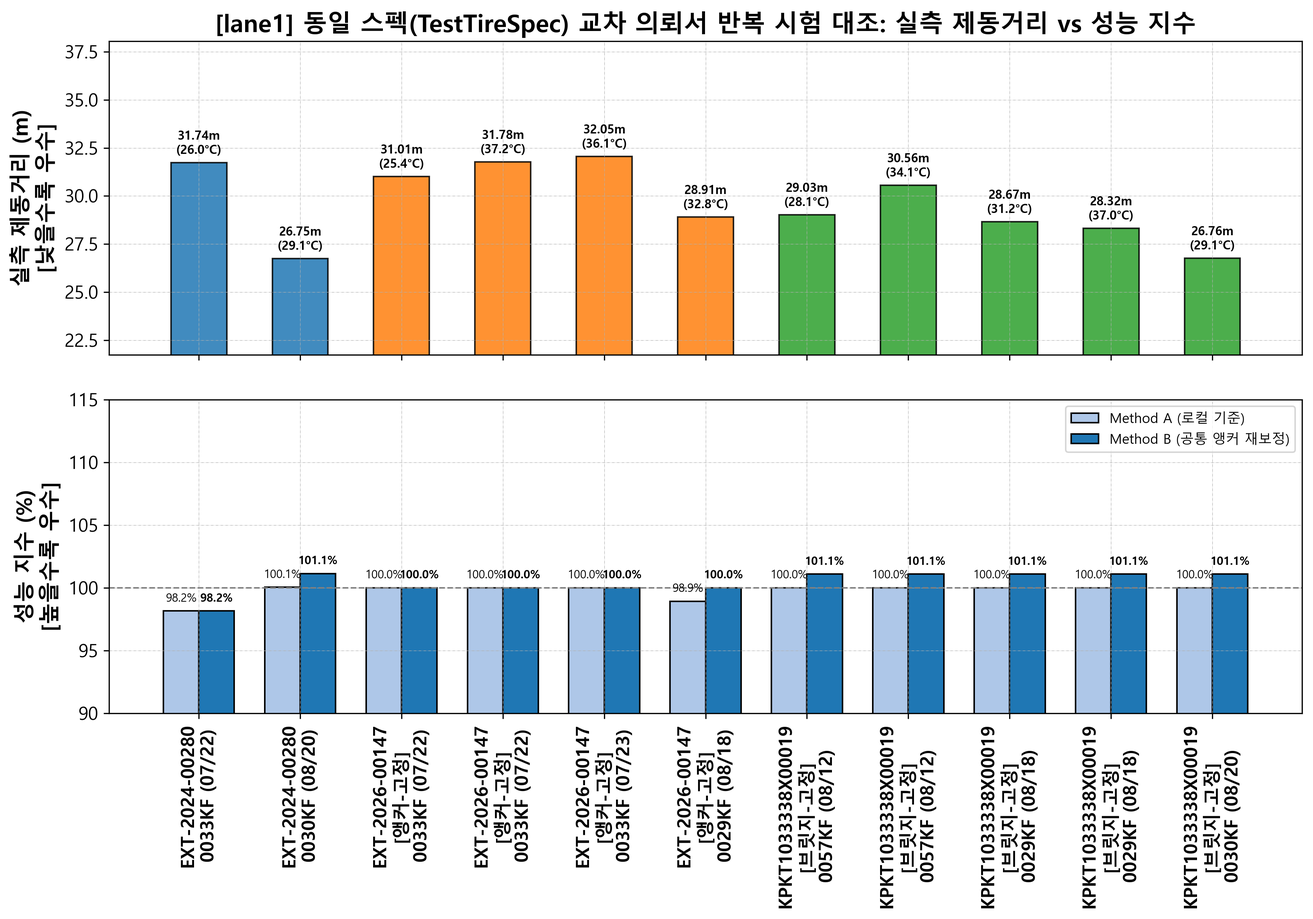
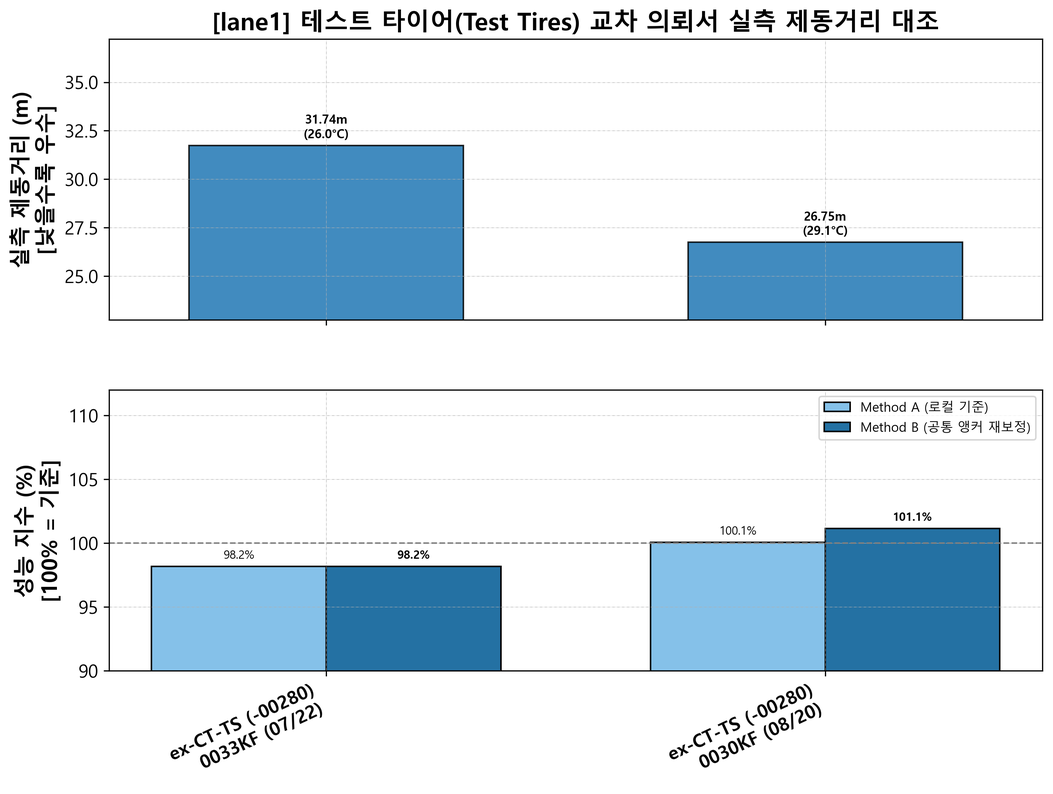
vault backup: 2026-09-16 20:51:15

diff --git a/02_Projects/회사_업무/10_Braking_AutoBuild/10_EV3_IW01_Integrated_Braking_Analysis_Report.md b/02_Projects/회사_업무/10_Braking_AutoBuild/10_EV3_IW01_Integrated_Braking_Analysis_Report.md
@@ -23,7 +23,7 @@ project_link: "[[02_Projects/회사_업무/10_Braking_AutoBuild/00_Braking_AutoB
 # 🚗 EV3 IW01 실차 제동 성능 종합 공학 분석 마스터 리포트
 ### Engineering Whitepaper: Surface Separation, Control Baseline, Temperature Sensitivity & Anchor Recalibration
 
-> **보고서 생성일시**: `2026-09-16 20:22` | **분석 프로젝트**: `EV3 IW01 제동 평가 (2026)`  
+> **보고서 생성일시**: `2026-09-16 20:41` | **분석 프로젝트**: `EV3 IW01 제동 평가 (2026)`  
 > **시험 차량**: `기아 EV3 (FF Layout / EV)` | **시험 장소**: `TR 실차 주행시험장`  
 > **평가 노면**: `Wet (Lane 1, Lane 4)` / `Dry (Lane 7, Lane 8)` | **분석 데이터셋**: 총 97회차 평가 데이터
 
@@ -36,7 +36,7 @@ project_link: "[[02_Projects/회사_업무/10_Braking_AutoBuild/00_Braking_AutoB
 4. [제2장: 콘트롤 타이어 노면온도 의존성 및 감인성 분석](#chapter-2)
 5. [제3장: 실측 제동거리 vs 성능지수 역전 불일치 진단](#chapter-3)
 6. [제4장: 공통 앵커(AP7) 기반 리캘리브레이션 및 종합 랭킹](#chapter-4)
-7. [제5장: 동일 스펙 교차 의뢰서 반복 재현성 정밀 대조](#chapter-5)
+7. [제5장: 콘트롤 타이어 및 테스트 타이어 교차 의뢰서 반복 재현성 정밀 대조](#chapter-5)
 8. [제6장: GPS 공간 품질(QC) 및 요(Yaw) 모션 종합 분석](#chapter-6)
 9. [제7장: 반복 횟수별 성능변화](#chapter-7)
 10. [제8장: 노면별 감속도 저하(Mu-Drop) 거리 및 환경 보정 왜곡 진단](#chapter-8)
@@ -673,105 +673,104 @@ project_link: "[[02_Projects/회사_업무/10_Braking_AutoBuild/00_Braking_AutoB
 ---
 
 <a id='chapter-5'></a>
-## 7. 🔁 [제5장] 동일 스펙 교차 의뢰서 반복 재현성 정밀 대조
-서로 다른 시기/의뢰서에서 2회 이상 중복 평가된 타이어들의 실측 제동거리 변동폭($\Delta\text{m}$)과 지수 편차($\Delta\%p$)를 검증한 결과입니다.
+## 7. 🔁 [제5장] 콘트롤 타이어 및 테스트 타이어 교차 의뢰서 반복 재현성 정밀 대조
+콘트롤 타이어의 세션 내(C1 vs C2) 및 의뢰서 간(Cross-Session) 안정성과, 테스트 타이어의 교차 의뢰서 지수 수렴도를 완전 분리하여 정밀 검증한 종합 보고서입니다.
 
-### 7.1 일반 평가 타이어 교차 세션 재현성 검증 (True Repeatability)
-> **⚠ 중요 공학적 해석**: 앵커/브릿지 타이어의 0.00%p는 수학적으로 기준점을 고정했기 때문에 나타나는 값이며, 진정한 실차 재현성은 아래 **일반 평가 타이어**의 산포(약 1.8%p ~ 4.8%p)를 통해 평가해야 합니다.
+### 7.1 콘트롤 타이어(Control Tires) 재현성 및 세션 안정성 평가
+> **📌 콘트롤 타이어 재현성의 의의**: 콘트롤 타이어(C-set)는 당일 시험 세션 내의 안정성(오전 C1 vs 오후 C2)을 보증하고, 서로 다른 계절/시기에 진행된 의뢰서 간의 환경 변화(온도/노면 마찰)를 보정하는 절대적 기준(Anchor)입니다.
 
-| No | 노면 | 스펙 번호 | 타이어 라벨 | 평가회수 | 실측 변동폭 (m) | Method A 편차 (%p) | Method B 편차 (%p) | 재현성 판정 | 온도차 (°C) | 세션별 실측 및 지수 상세 |
-| :---: | :---: | :---: | :--- | :---: | ---: | ---: | ---: | :---: | ---: | :--- |
-| 1 | lane1 | EXT-2024-00280 | ex / CT / TS | 2 | 4.99 | 1.89 | 2.98 | 실제 잔여 편차 (2.98%p) | 3.10 | 33KF: 31.74m (A:98.2% ➔ B:98.2%) \| 30KF: 26.75m (A:100.1% ➔ B:101.1%) |
-| 2 | lane4 | EXT-2024-00280 | ex / CT / TS | 2 | 2.29 | 1.23 | 4.78 | 실제 잔여 편차 (4.78%p) | 1.10 | 33KF: 36.42m (A:99.2% ➔ B:99.2%) \| 30KF: 34.13m (A:100.4% ➔ B:104.0%) |
-| 3 | lane4 | KPKT1033338X00013 | 1st / IW01 / X13 | 3 | 4.44 | 3.55 | 3.55 | 편차 유지 (3.55%p) | 13.70 | 25KF: 31.90m (A:103.3% ➔ B:103.3%) \| 33KF: 36.34m (A:99.8% ➔ B:99.8%) \| 33KF: 35.78m (A:99.8% ➔ B:99.8%) |
-| 4 | lane7 | EXT-2024-00280 | ex / CT / TS | 2 | 2.86 | 0.43 | 1.70 | 실제 잔여 편차 (1.70%p) | 5.40 | 33KF: 48.26m (A:99.0% ➔ B:99.0%) \| 30KF: 45.41m (A:99.5% ➔ B:100.7%) |
-
-
-### 7.2 기준선 정렬 스펙 검증표 (Anchor & Bridge - 수학적 기준점)
-| No | 노면 | 스펙 번호 | 타이어 라벨 | 역할 분류 | 평가회수 | 실측 변동폭 (m) | Method A 편차 (%p) | Method B 편차 (%p) | 상태 정의 | 세션별 실측 및 지수 상세 |
-| :---: | :---: | :---: | :--- | :---: | :---: | ---: | ---: | ---: | :---: | :--- |
-| 1 | lane1 | EXT-2026-00147 | [Ctrl] ex / MC / AP7 | 공통 앵커 (Anchor) | 4 | 3.14 | 1.07 | 0.00 | 기준점 정의 (0.00%p 고정) | 33KF: 31.01m (A:100.0% ➔ B:100.0%) \| 33KF: 31.78m (A:100.0% ➔ B:100.0%) \| 33KF: 32.05m (A:100.0% ➔ B:100.0%) \| 29KF: 28.91m (A:98.9% ➔ B:100.0%) |
-| 2 | lane1 | KPKT1033338X00019 | [Ctrl] KP / IW01 / X19 | 브릿지 타이어 (Bridge) | 5 | 3.80 | 0.00 | 0.00 | 연계 정의 (0.00%p 고정) | 57KF: 29.03m (A:100.0% ➔ B:101.1%) \| 57KF: 30.56m (A:100.0% ➔ B:101.1%) \| 29KF: 28.67m (A:100.0% ➔ B:101.1%) \| 29KF: 28.32m (A:100.0% ➔ B:101.1%) \| 30KF: 26.76m (A:100.0% ➔ B:101.1%) |
-| 3 | lane4 | EXT-2026-00147 | [Ctrl] ex / MC / AP7 | 공통 앵커 (Anchor) | 7 | 3.90 | 4.45 | 0.00 | 기준점 정의 (0.00%p 고정) | 25KF: 32.80m (A:100.0% ➔ B:100.0%) \| 25KF: 33.29m (A:100.0% ➔ B:100.0%) \| 23KF: 36.70m (A:95.6% ➔ B:100.0%) \| 33KF: 35.99m (A:100.0% ➔ B:100.0%) \| 33KF: 36.64m (A:100.0% ➔ B:100.0%) \| 33KF: 35.73m (A:100.0% ➔ B:100.0%) \| 29KF: 35.10m (A:96.6% ➔ B:100.0%) |
-| 4 | lane4 | KPKT1033338X00019 | [Ctrl] KP / IW01 / X19 | 브릿지 타이어 (Bridge) | 5 | 0.94 | 0.00 | 0.00 | 연계 정의 (0.00%p 고정) | 57KF: 33.35m (A:100.0% ➔ B:103.5%) \| 57KF: 33.86m (A:100.0% ➔ B:103.5%) \| 29KF: 33.85m (A:100.0% ➔ B:103.5%) \| 29KF: 34.29m (A:100.0% ➔ B:103.5%) \| 30KF: 34.27m (A:100.0% ➔ B:103.5%) |
-| 5 | lane7 | EXT-2026-00147 | [Ctrl] ex / MC / AP7 | 공통 앵커 (Anchor) | 3 | 1.26 | 1.27 | 0.00 | 기준점 정의 (0.00%p 고정) | 33KF: 47.77m (A:100.0% ➔ B:100.0%) \| 33KF: 47.93m (A:100.0% ➔ B:100.0%) \| 29KF: 46.68m (A:98.7% ➔ B:100.0%) |
-| 6 | lane7 | KPKT1033338X00019 | [Ctrl] KP / IW01 / X19 | 브릿지 타이어 (Bridge) | 5 | 2.64 | 0.00 | 0.00 | 연계 정의 (0.00%p 고정) | 57KF: 47.65m (A:100.0% ➔ B:101.3%) \| 57KF: 46.95m (A:100.0% ➔ B:101.3%) \| 29KF: 45.78m (A:100.0% ➔ B:101.3%) \| 30KF: 45.01m (A:100.0% ➔ B:101.3%) \| 30KF: 45.76m (A:100.0% ➔ B:101.3%) |
-| 7 | lane8 | EXT-2026-00147 | [Ctrl] ex / MC / AP7 | 공통 앵커 (Anchor) | 3 | 3.55 | 1.19 | 0.00 | 기준점 정의 (0.00%p 고정) | 25KF: 43.51m (A:100.0% ➔ B:100.0%) \| 25KF: 43.60m (A:100.0% ➔ B:100.0%) \| 23KF: 47.07m (A:101.2% ➔ B:100.0%) |
+#### 7.1.1 동일 콘트롤 타이어 스펙 의뢰서 간(Cross-Session) 반복성 요약표
+| No | 노면 | 스펙 번호 | 타이어 라벨 | 의뢰서수 | 총측정회수 | 실측 평균(m) | 최소(m) | 최대(m) | 변동폭(m) | CV(%) | 온도차(°C) | 재현성 판정 | 세션별 실측치 이력 |
+| :---: | :---: | :---: | :--- | :---: | :---: | ---: | ---: | ---: | ---: | ---: | ---: | :---: | :--- |
+| 1 | lane1 | EXT-2026-00147 | ex-MC-AP7 | 1 | 3 | 31.61 | 31.01 | 32.05 | 1.04 | 1.70 | 11.80 | 단일 의뢰서 (3회 측정) | 0033KF(07-22): 31.39m \| 0033KF(07-23): 32.05m |
+| 2 | lane1 | KPKT1033338X00019 | KP-IW01-X19 | 3 | 5 | 28.67 | 26.76 | 30.56 | 3.80 | 4.77 | 8.90 | 환경 편차 큼 (3.80m, 계절차) | 0057KF(08-12): 29.80m \| 0029KF(08-18): 28.49m \| 0030KF(08-20): 26.76m |
+| 3 | lane4 | EXT-2026-00147 | ex-MC-AP7 | 2 | 5 | 34.89 | 32.80 | 36.64 | 3.85 | 4.95 | 18.20 | 환경 편차 큼 (3.85m, 계절차) | 0025KF(04-28): 33.05m \| 0033KF(07-22): 36.32m \| 0033KF(07-23): 35.73m |
+| 4 | lane4 | KPKT1033338X00018 | 2nd-IW01-X18 | 1 | 2 | 34.88 | 34.46 | 35.31 | 0.85 | 1.73 | 3.30 | 단일 의뢰서 (2회 측정) | 0023KF(06-24): 34.88m |
+| 5 | lane4 | KPKT1033338X00019 | KP-IW01-X19 | 3 | 5 | 33.92 | 33.35 | 34.29 | 0.94 | 1.13 | 8.10 | 보통 편차 (0.94m) | 0057KF(08-12): 33.60m \| 0029KF(08-18): 34.07m \| 0030KF(08-20): 34.27m |
+| 6 | lane7 | EXT-2026-00147 | ex-MC-AP7 | 1 | 2 | 47.85 | 47.77 | 47.93 | 0.17 | 0.25 | 9.60 | 단일 의뢰서 (2회 측정) | 0033KF(07-23): 47.85m |
+| 7 | lane7 | KPKT1033338X00019 | KP-IW01-X19 | 3 | 5 | 46.23 | 45.01 | 47.65 | 2.64 | 2.28 | 18.50 | 환경 편차 큼 (2.64m, 계절차) | 0057KF(08-13): 47.30m \| 0029KF(08-19): 45.78m \| 0030KF(08-24): 45.39m |
+| 8 | lane8 | EXT-2026-00147 | ex-MC-AP7 | 1 | 2 | 43.56 | 43.51 | 43.60 | 0.08 | 0.14 | 0.00 | 단일 의뢰서 (2회 측정) | 0025KF(04-29): 43.56m |
+| 9 | lane8 | KPKT1033338X00018 | 2nd-IW01-X18 | 1 | 1 | 47.63 | 47.63 | 47.63 | 0.00 | 0.00 | 0.00 | 단일 의뢰서 (1회 측정) | 0023KF(06-25): 47.63m |
 
 
-### 7.3 노면별 동일 스펙 반복 평가 대조 차트
-#### 📊 Lane 1 (Wet 저마찰 아스팔트) 동일 스펙 비교
-![[05_01_Cross_Spec_Comparison_lane1.png]]
+#### 7.1.2 콘트롤 타이어 세션 내(Within-Session: C1 vs C2) 반복성 정밀 대조표
+| No | 노면 | 시험 의뢰서 | 시험일자 | 스펙 번호 | 타이어 라벨 | C1 실측(m) | C2 실측(m) | 세션내 편차(m) | 변동률(%) | C1 온도(°C) | C2 온도(°C) | 세션내 안정성 평가 |
+| :---: | :---: | :---: | :---: | :---: | :--- | ---: | ---: | ---: | ---: | ---: | ---: | :---: |
+| 1 | lane1 | 26RE070033KF | 2026-07-22 | EXT-2026-00147 | ex-MC-AP7 | 31.01 | 31.78 | 0.76 | 2.46 | 25.40 | 37.20 | 양호 (편차 0.76m) |
+| 2 | lane1 | 26RE070057KF | 2026-08-12 | KPKT1033338X00019 | KP-IW01-X19 | 29.03 | 30.56 | 1.53 | 5.28 | 28.10 | 34.10 | 변동 주의 (편차 1.53m) |
+| 3 | lane1 | 26RE080029KF | 2026-08-18 | KPKT1033338X00019 | 2nd-IW01-X19 | 28.67 | 28.32 | -0.35 | -1.22 | 31.20 | 37.00 | 우수 (편차 0.35m) |
+| 4 | lane4 | 26RE040025KF | 2026-04-28 | EXT-2026-00147 | ex-MC-AP7 | 32.80 | 33.29 | 0.49 | 1.50 | 18.40 | 20.40 | 우수 (편차 0.49m) |
+| 5 | lane4 | 26RE060023KF | 2026-06-24 | KPKT1033338X00018 | 2nd-IW01-X18 | 34.46 | 35.31 | 0.85 | 2.47 | 24.50 | 27.80 | 양호 (편차 0.85m) |
+| 6 | lane4 | 26RE070033KF | 2026-07-22 | EXT-2026-00147 | ex-MC-AP7 | 35.99 | 36.64 | 0.65 | 1.81 | 25.40 | 36.60 | 양호 (편차 0.65m) |
+| 7 | lane4 | 26RE070057KF | 2026-08-12 | KPKT1033338X00019 | KP-IW01-X19 | 33.35 | 33.86 | 0.51 | 1.52 | 27.80 | 34.10 | 양호 (편차 0.51m) |
+| 8 | lane4 | 26RE080029KF | 2026-08-18 | KPKT1033338X00019 | 2nd-IW01-X19 | 33.85 | 34.29 | 0.43 | 1.28 | 30.30 | 35.90 | 우수 (편차 0.43m) |
+| 9 | lane7 | 26RE070033KF | 2026-07-23 | EXT-2026-00147 | ex-MC-AP7 | 47.77 | 47.93 | 0.17 | 0.35 | 32.30 | 41.90 | 우수 (편차 0.17m) |
+| 10 | lane7 | 26RE070057KF | 2026-08-13 | KPKT1033338X00019 | KP-IW01-X19 | 47.65 | 46.95 | -0.70 | -1.47 | 33.80 | 45.50 | 양호 (편차 0.70m) |
+| 11 | lane7 | 26RE080030KF | 2026-08-24 | KPKT1033338X00019 | 2nd-IW01-X19 | 45.01 | 45.76 | 0.75 | 1.66 | 38.70 | 52.30 | 양호 (편차 0.75m) |
+| 12 | lane8 | 26RE040025KF | 2026-04-29 | EXT-2026-00147 | ex-MC-AP7 | 43.51 | 43.60 | 0.08 | 0.20 | 0.00 | 0.00 | 우수 (편차 0.08m) |
 
-#### 📊 Lane 4 (Wet 고마찰 아스팔트) 동일 스펙 비교
-![[05_02_Cross_Spec_Comparison_lane4.png]]
 
-#### 📊 Lane 7 (Dry 아스팔트) 동일 스펙 비교
-![[05_03_Cross_Spec_Comparison_lane7.png]]
+#### 7.1.3 노면별 콘트롤 타이어 세션별 실측거리 및 세션 내 편차 차트
+##### 📊 Lane 1 (Wet 저마찰 아스팔트) 콘트롤 타이어 재현성 및 C1 vs C2 편차
+![[05_01_Ctrl_Repeatability_lane1.png]]
 
-#### 📊 Lane 8 (Dry) 동일 스펙 비교
-![[05_04_Cross_Spec_Comparison_lane8.png]]
+##### 📊 Lane 4 (Wet 고마찰 아스팔트) 콘트롤 타이어 재현성 및 C1 vs C2 편차
+![[05_01_Ctrl_Repeatability_lane4.png]]
 
-### 7.4 노면별 동일 스펙 세부 평가 이력 및 재보정 산출 명세표 (전수 수록)
-#### ▶ LANE1 동일 스펙 반복 평가 세부 명세 (총 11건)
+##### 📊 Lane 7 (Dry 아스팔트) 콘트롤 타이어 재현성 및 C1 vs C2 편차
+![[05_01_Ctrl_Repeatability_lane7.png]]
+
+##### 📊 Lane 8 (Dry 제동 시험로) 콘트롤 타이어 재현성 및 C1 vs C2 편차
+![[05_01_Ctrl_Repeatability_lane8.png]]
+
+### 7.2 테스트 타이어(Test Tires) 교차 의뢰서 재현성 및 지수 수렴 평가
+> **⚠ 중요 공학적 해석**: 일반 테스트 타이어의 교차 의뢰서 평가는 계절/기온차 및 타이어 컴파운드의 온도 감응도 차이로 인해 실차 고유 산포(약 1.7%p ~ 4.8%p)가 발생합니다. Method B(공통 앵커 재보정)는 이러한 환경 편차를 수학적으로 정규화하여 타이어 간 공정한 직접 대조를 가능하게 합니다.
+
+#### 7.2.1 테스트 타이어 스펙별 교차 의뢰서 반복 대조 요약표
+| No | 노면 | 스펙 번호 | 타이어 라벨 | 평가회수 | 최소(m) | 최대(m) | 실측 변동폭(m) | Method A 편차(%p) | Method B 편차(%p) | 개선폭(%p) | 재현성 판정 | 온도차(°C) | 세션별 실측 및 지수 상세 |
+| :---: | :---: | :---: | :--- | :---: | ---: | ---: | ---: | ---: | ---: | ---: | :---: | ---: | :--- |
+| 1 | lane1 | EXT-2024-00280 | ex-CT-TS | 2 | 26.75 | 31.74 | 4.99 | 1.89 | 2.98 | -1.09 | 실제 잔여 편차 (2.98%p) | 3.10 | 33KF: 31.74m (A:98.2% ➔ B:98.2%) \| 30KF: 26.75m (A:100.1% ➔ B:101.1%) |
+| 2 | lane4 | EXT-2024-00280 | ex-CT-TS | 2 | 34.13 | 36.42 | 2.29 | 1.23 | 4.78 | -3.55 | 실제 잔여 편차 (4.78%p) | 1.10 | 33KF: 36.42m (A:99.2% ➔ B:99.2%) \| 30KF: 34.13m (A:100.4% ➔ B:104.0%) |
+| 3 | lane4 | EXT-2026-00147 | ex-MC-AP7 | 2 | 35.10 | 36.70 | 1.60 | 1.03 | 0.00 | 1.03 | 완벽 수렴 | 5.80 | 23KF: 36.70m (A:95.6% ➔ B:100.0%) \| 29KF: 35.10m (A:96.6% ➔ B:100.0%) |
+| 4 | lane4 | KPKT1033338X00013 | 1st-IW01-X13 | 3 | 31.90 | 36.34 | 4.44 | 3.55 | 3.55 | 0.00 | 편차 유지 (3.55%p) | 13.70 | 25KF: 31.90m (A:103.3% ➔ B:103.3%) \| 33KF: 36.34m (A:99.8% ➔ B:99.8%) \| 33KF: 35.78m (A:99.8% ➔ B:99.8%) |
+| 5 | lane7 | EXT-2024-00280 | ex-CT-TS | 2 | 45.41 | 48.26 | 2.86 | 0.43 | 1.70 | -1.27 | 실제 잔여 편차 (1.70%p) | 5.40 | 33KF: 48.26m (A:99.0% ➔ B:99.0%) \| 30KF: 45.41m (A:99.5% ➔ B:100.7%) |
+
+
+#### 7.2.2 노면별 테스트 타이어 실측 제동거리 vs 성능 지수 대조 차트
+##### 📊 Lane 1 (Wet 저마찰 아스팔트) 테스트 타이어 교차 대조
+![[05_02_Test_Repeatability_lane1.png]]
+
+##### 📊 Lane 4 (Wet 고마찰 아스팔트) 테스트 타이어 교차 대조
+![[05_02_Test_Repeatability_lane4.png]]
+
+##### 📊 Lane 7 (Dry 아스팔트) 테스트 타이어 교차 대조
+![[05_02_Test_Repeatability_lane7.png]]
+
+#### 7.2.3 테스트 타이어 세부 평가 이력 및 재보정 산출 명세표 (전수 수록)
+##### ▶ LANE1 테스트 타이어 교차 평가 세부 명세 (총 2건)
 | No | 스펙 번호 | 타이어 명칭/패턴 | 시험 의뢰서 | 차수 | 시험 일시 | 당일 콘트롤 | 콘트롤거리(m) | 실측거리(m) | Method A 산출식 | 로컬지수(%) | 적용배율 | 배율도출근거 | Method B 산출식 | 재보정지수(%) | 앵커대비편차(%p) |
 | :---: | :---: | :--- | :---: | :---: | :---: | :--- | ---: | ---: | :--- | ---: | ---: | :--- | :--- | ---: | ---: |
-| 1 | EXT-2024-00280 | ex / CT / TS | 26RE070033KF | T1 | 2026-07-22 09:50 | ex / MC / AP7 | 31.16 | 31.74 | 31.16m / 31.74m × 100 = 98.16% | 98.16 | 1.00 | 100.0% / 100.00% = 1.0000 | 98.16% × 1.0000 = 98.16% | 98.16 | -1.84 |
-| 2 | EXT-2024-00280 | ex / CT / TS | 26RE080030KF | T1 | 2026-08-20 15:52 | 2nd / IW01 / X19 | 26.76 | 26.75 | 26.76m / 26.75m × 100 = 100.05% | 100.05 | 1.01 | 101.09% / 100.00% = 1.0109 | 100.05% × 1.0109 = 101.14% | 101.14 | 1.14 |
-| 3 | EXT-2026-00147 | [Ctrl] ex / MC / AP7 | 26RE070033KF | C1 | 2026-07-22 09:12 | ex / MC / AP7 | 31.01 | 31.01 | 31.01m / 31.01m × 100 = 100.00% | 100.00 | 1.00 | 100.0% / 100.00% = 1.0000 | 100.00% × 1.0000 = 100.00% | 100.00 | 0.00 |
-| 4 | EXT-2026-00147 | [Ctrl] ex / MC / AP7 | 26RE070033KF | C2 | 2026-07-22 13:55 | ex / MC / AP7 | 31.78 | 31.78 | 31.78m / 31.78m × 100 = 100.00% | 100.00 | 1.00 | 100.0% / 100.00% = 1.0000 | 100.00% × 1.0000 = 100.00% | 100.00 | 0.00 |
-| 5 | EXT-2026-00147 | [Ctrl] ex / MC / AP7 | 26RE070033KF | C1 | 2026-07-23 13:28 | ex / MC / AP7 | 32.05 | 32.05 | 32.05m / 32.05m × 100 = 100.00% | 100.00 | 1.00 | 100.0% / 100.00% = 1.0000 | 100.00% × 1.0000 = 100.00% | 100.00 | 0.00 |
-| 6 | EXT-2026-00147 | ex / MC / AP7 | 26RE080029KF | T2 | 2026-08-18 09:57 | 2nd / IW01 / X19 | 28.60 | 28.91 | 28.60m / 28.91m × 100 = 98.93% | 98.93 | 1.01 | 100.0% / 98.93% = 1.0109 | 98.93% × 1.0109 = 100.00% | 100.00 | 0.00 |
-| 7 | KPKT1033338X00019 | [Ctrl] KP / IW01 / X19 | 26RE070057KF | C1 | 2026-08-12 09:21 | KP / IW01 / X19 | 29.03 | 29.03 | 29.03m / 29.03m × 100 = 100.00% | 100.00 | 1.01 | 101.09% / 100.00% = 1.0109 | 100.00% × 1.0109 = 101.09% | 101.09 | 1.09 |
-| 8 | KPKT1033338X00019 | [Ctrl] KP / IW01 / X19 | 26RE070057KF | C2 | 2026-08-12 13:35 | KP / IW01 / X19 | 30.56 | 30.56 | 30.56m / 30.56m × 100 = 100.00% | 100.00 | 1.01 | 101.09% / 100.00% = 1.0109 | 100.00% × 1.0109 = 101.09% | 101.09 | 1.09 |
-| 9 | KPKT1033338X00019 | [Ctrl] 2nd / IW01 / X19 | 26RE080029KF | C1 | 2026-08-18 09:24 | 2nd / IW01 / X19 | 28.67 | 28.67 | 28.67m / 28.67m × 100 = 100.00% | 100.00 | 1.01 | 100.0% / 98.93% = 1.0109 | 100.00% × 1.0109 = 101.09% | 101.09 | 1.09 |
-| 10 | KPKT1033338X00019 | [Ctrl] 2nd / IW01 / X19 | 26RE080029KF | C2 | 2026-08-18 13:43 | 2nd / IW01 / X19 | 28.32 | 28.32 | 28.32m / 28.32m × 100 = 100.00% | 100.00 | 1.01 | 100.0% / 98.93% = 1.0109 | 100.00% × 1.0109 = 101.09% | 101.09 | 1.09 |
-| 11 | KPKT1033338X00019 | [Ctrl] 2nd / IW01 / X19 | 26RE080030KF | C1 | 2026-08-20 15:21 | 2nd / IW01 / X19 | 26.76 | 26.76 | 26.76m / 26.76m × 100 = 100.00% | 100.00 | 1.01 | 101.09% / 100.00% = 1.0109 | 100.00% × 1.0109 = 101.09% | 101.09 | 1.09 |
+| 1 | EXT-2024-00280 | ex-CT-TS | 26RE070033KF | T1 | 2026-07-22 09:50 | ex / MC / AP7 | 31.16 | 31.74 | 31.16m / 31.74m × 100 = 98.16% | 98.16 | 1.00 | 100.0% / 100.00% = 1.0000 | 98.16% × 1.0000 = 98.16% | 98.16 | -1.84 |
+| 2 | EXT-2024-00280 | ex-CT-TS | 26RE080030KF | T1 | 2026-08-20 15:52 | 2nd / IW01 / X19 | 26.76 | 26.75 | 26.76m / 26.75m × 100 = 100.05% | 100.05 | 1.01 | 101.09% / 100.00% = 1.0109 | 100.05% × 1.0109 = 101.14% | 101.14 | 1.14 |
 
 
-#### ▶ LANE4 동일 스펙 반복 평가 세부 명세 (총 17건)
+##### ▶ LANE4 테스트 타이어 교차 평가 세부 명세 (총 7건)
 | No | 스펙 번호 | 타이어 명칭/패턴 | 시험 의뢰서 | 차수 | 시험 일시 | 당일 콘트롤 | 콘트롤거리(m) | 실측거리(m) | Method A 산출식 | 로컬지수(%) | 적용배율 | 배율도출근거 | Method B 산출식 | 재보정지수(%) | 앵커대비편차(%p) |
 | :---: | :---: | :--- | :---: | :---: | :---: | :--- | ---: | ---: | :--- | ---: | ---: | :--- | :--- | ---: | ---: |
-| 1 | EXT-2024-00280 | ex / CT / TS | 26RE070033KF | T1 | 2026-07-22 09:57 | ex / MC / AP7 | 36.12 | 36.42 | 36.12m / 36.42m × 100 = 99.17% | 99.17 | 1.00 | 100.0% / 100.00% = 1.0000 | 99.17% × 1.0000 = 99.17% | 99.17 | -0.83 |
-| 2 | EXT-2024-00280 | ex / CT / TS | 26RE080030KF | T1 | 2026-08-20 11:57 | 2nd / IW01 / X19 | 34.27 | 34.13 | 34.27m / 34.13m × 100 = 100.40% | 100.40 | 1.04 | 103.54% / 100.00% = 1.0354 | 100.40% × 1.0354 = 103.95% | 103.95 | 3.95 |
-| 3 | EXT-2026-00147 | [Ctrl] ex / MC / AP7 | 26RE040025KF | C1 | 2026-04-28 10:18 | ex / MC / AP7 | 32.80 | 32.80 | 32.80m / 32.80m × 100 = 100.00% | 100.00 | 1.00 | 100.0% / 100.00% = 1.0000 | 100.00% × 1.0000 = 100.00% | 100.00 | 0.00 |
-| 4 | EXT-2026-00147 | [Ctrl] ex / MC / AP7 | 26RE040025KF | C2 | 2026-04-28 14:16 | ex / MC / AP7 | 33.29 | 33.29 | 33.29m / 33.29m × 100 = 100.00% | 100.00 | 1.00 | 100.0% / 100.00% = 1.0000 | 100.00% × 1.0000 = 100.00% | 100.00 | 0.00 |
-| 5 | EXT-2026-00147 | ex / MC / AP7 | 26RE060023KF | T4 | 2026-06-24 13:43 | 2nd / IW01 / X18 | 35.14 | 36.70 | 35.14m / 36.70m × 100 = 95.55% | 95.55 | 1.05 | 100.0% / 95.55% = 1.0465 | 95.55% × 1.0465 = 100.00% | 100.00 | 0.00 |
-| 6 | EXT-2026-00147 | [Ctrl] ex / MC / AP7 | 26RE070033KF | C1 | 2026-07-22 09:22 | ex / MC / AP7 | 35.99 | 35.99 | 35.99m / 35.99m × 100 = 100.00% | 100.00 | 1.00 | 100.0% / 100.00% = 1.0000 | 100.00% × 1.0000 = 100.00% | 100.00 | 0.00 |
-| 7 | EXT-2026-00147 | [Ctrl] ex / MC / AP7 | 26RE070033KF | C2 | 2026-07-22 14:06 | ex / MC / AP7 | 36.64 | 36.64 | 36.64m / 36.64m × 100 = 100.00% | 100.00 | 1.00 | 100.0% / 100.00% = 1.0000 | 100.00% × 1.0000 = 100.00% | 100.00 | 0.00 |
-| 8 | EXT-2026-00147 | [Ctrl] ex / MC / AP7 | 26RE070033KF | C1 | 2026-07-23 13:18 | ex / MC / AP7 | 35.73 | 35.73 | 35.73m / 35.73m × 100 = 100.00% | 100.00 | 1.00 | 100.0% / 100.00% = 1.0000 | 100.00% × 1.0000 = 100.00% | 100.00 | 0.00 |
-| 9 | EXT-2026-00147 | ex / MC / AP7 | 26RE080029KF | T2 | 2026-08-18 10:11 | 2nd / IW01 / X19 | 33.94 | 35.10 | 33.94m / 35.10m × 100 = 96.58% | 96.58 | 1.04 | 100.0% / 96.58% = 1.0354 | 96.58% × 1.0354 = 100.00% | 100.00 | 0.00 |
-| 10 | KPKT1033338X00013 | 1st / IW01 / X13 | 26RE040025KF | T2 | 2026-04-28 11:23 | ex / MC / AP7 | 33.00 | 31.90 | 33.00m / 31.90m × 100 = 103.32% | 103.32 | 1.00 | 100.0% / 100.00% = 1.0000 | 103.32% × 1.0000 = 103.32% | 103.32 | 3.32 |
-| 11 | KPKT1033338X00013 | 2nd / IW01 / X13 | 26RE070033KF | T2 | 2026-07-22 10:40 | ex / MC / AP7 | 36.25 | 36.34 | 36.25m / 36.34m × 100 = 99.77% | 99.77 | 1.00 | 100.0% / 100.00% = 1.0000 | 99.77% × 1.0000 = 99.77% | 99.77 | -0.23 |
-| 12 | KPKT1033338X00013 | 2nd / IW01 / X13 | 26RE070033KF | T2 | 2026-07-23 13:49 | ex / MC / AP7 | 35.73 | 35.78 | 35.73m / 35.78m × 100 = 99.84% | 99.84 | 1.00 | 100.0% / 100.00% = 1.0000 | 99.84% × 1.0000 = 99.84% | 99.84 | -0.16 |
-| 13 | KPKT1033338X00019 | [Ctrl] KP / IW01 / X19 | 26RE070057KF | C1 | 2026-08-12 09:35 | KP / IW01 / X19 | 33.35 | 33.35 | 33.35m / 33.35m × 100 = 100.00% | 100.00 | 1.04 | 103.54% / 100.00% = 1.0354 | 100.00% × 1.0354 = 103.54% | 103.54 | 3.54 |
-| 14 | KPKT1033338X00019 | [Ctrl] KP / IW01 / X19 | 26RE070057KF | C2 | 2026-08-12 13:50 | KP / IW01 / X19 | 33.86 | 33.86 | 33.86m / 33.86m × 100 = 100.00% | 100.00 | 1.04 | 103.54% / 100.00% = 1.0354 | 100.00% × 1.0354 = 103.54% | 103.54 | 3.54 |
-| 15 | KPKT1033338X00019 | [Ctrl] 2nd / IW01 / X19 | 26RE080029KF | C1 | 2026-08-18 09:34 | 2nd / IW01 / X19 | 33.85 | 33.85 | 33.85m / 33.85m × 100 = 100.00% | 100.00 | 1.04 | 100.0% / 96.58% = 1.0354 | 100.00% × 1.0354 = 103.54% | 103.54 | 3.54 |
-| 16 | KPKT1033338X00019 | [Ctrl] 2nd / IW01 / X19 | 26RE080029KF | C2 | 2026-08-18 13:54 | 2nd / IW01 / X19 | 34.29 | 34.29 | 34.29m / 34.29m × 100 = 100.00% | 100.00 | 1.04 | 100.0% / 96.58% = 1.0354 | 100.00% × 1.0354 = 103.54% | 103.54 | 3.54 |
-| 17 | KPKT1033338X00019 | [Ctrl] 2nd / IW01 / X19 | 26RE080030KF | C1 | 2026-08-20 15:32 | 2nd / IW01 / X19 | 34.27 | 34.27 | 34.27m / 34.27m × 100 = 100.00% | 100.00 | 1.04 | 103.54% / 100.00% = 1.0354 | 100.00% × 1.0354 = 103.54% | 103.54 | 3.54 |
+| 1 | EXT-2024-00280 | ex-CT-TS | 26RE070033KF | T1 | 2026-07-22 09:57 | ex / MC / AP7 | 36.12 | 36.42 | 36.12m / 36.42m × 100 = 99.17% | 99.17 | 1.00 | 100.0% / 100.00% = 1.0000 | 99.17% × 1.0000 = 99.17% | 99.17 | -0.83 |
+| 2 | EXT-2024-00280 | ex-CT-TS | 26RE080030KF | T1 | 2026-08-20 11:57 | 2nd / IW01 / X19 | 34.27 | 34.13 | 34.27m / 34.13m × 100 = 100.40% | 100.40 | 1.04 | 103.54% / 100.00% = 1.0354 | 100.40% × 1.0354 = 103.95% | 103.95 | 3.95 |
+| 3 | EXT-2026-00147 | ex-MC-AP7 | 26RE060023KF | T4 | 2026-06-24 13:43 | 2nd / IW01 / X18 | 35.14 | 36.70 | 35.14m / 36.70m × 100 = 95.55% | 95.55 | 1.05 | 100.0% / 95.55% = 1.0465 | 95.55% × 1.0465 = 100.00% | 100.00 | 0.00 |
+| 4 | EXT-2026-00147 | ex-MC-AP7 | 26RE080029KF | T2 | 2026-08-18 10:11 | 2nd / IW01 / X19 | 33.94 | 35.10 | 33.94m / 35.10m × 100 = 96.58% | 96.58 | 1.04 | 100.0% / 96.58% = 1.0354 | 96.58% × 1.0354 = 100.00% | 100.00 | 0.00 |
+| 5 | KPKT1033338X00013 | 1st-IW01-X13 | 26RE040025KF | T2 | 2026-04-28 11:23 | ex / MC / AP7 | 33.00 | 31.90 | 33.00m / 31.90m × 100 = 103.32% | 103.32 | 1.00 | 100.0% / 100.00% = 1.0000 | 103.32% × 1.0000 = 103.32% | 103.32 | 3.32 |
+| 6 | KPKT1033338X00013 | 2nd-IW01-X13 | 26RE070033KF | T2 | 2026-07-22 10:40 | ex / MC / AP7 | 36.25 | 36.34 | 36.25m / 36.34m × 100 = 99.77% | 99.77 | 1.00 | 100.0% / 100.00% = 1.0000 | 99.77% × 1.0000 = 99.77% | 99.77 | -0.23 |
+| 7 | KPKT1033338X00013 | 2nd-IW01-X13 | 26RE070033KF | T2 | 2026-07-23 13:49 | ex / MC / AP7 | 35.73 | 35.78 | 35.73m / 35.78m × 100 = 99.84% | 99.84 | 1.00 | 100.0% / 100.00% = 1.0000 | 99.84% × 1.0000 = 99.84% | 99.84 | -0.16 |
 
 
-#### ▶ LANE7 동일 스펙 반복 평가 세부 명세 (총 10건)
+##### ▶ LANE7 테스트 타이어 교차 평가 세부 명세 (총 2건)
 | No | 스펙 번호 | 타이어 명칭/패턴 | 시험 의뢰서 | 차수 | 시험 일시 | 당일 콘트롤 | 콘트롤거리(m) | 실측거리(m) | Method A 산출식 | 로컬지수(%) | 적용배율 | 배율도출근거 | Method B 산출식 | 재보정지수(%) | 앵커대비편차(%p) |
 | :---: | :---: | :--- | :---: | :---: | :---: | :--- | ---: | ---: | :--- | ---: | ---: | :--- | :--- | ---: | ---: |
-| 1 | EXT-2024-00280 | ex / CT / TS | 26RE070033KF | T1 | 2026-07-23 09:20 | ex / MC / AP7 | 47.80 | 48.26 | 47.80m / 48.26m × 100 = 99.03% | 99.03 | 1.00 | 100.0% / 100.00% = 1.0000 | 99.03% × 1.0000 = 99.03% | 99.03 | -0.97 |
-| 2 | EXT-2024-00280 | ex / CT / TS | 26RE080030KF | T1 | 2026-08-24 09:49 | 2nd / IW01 / X19 | 45.16 | 45.41 | 45.16m / 45.41m × 100 = 99.46% | 99.46 | 1.01 | 101.28% / 100.00% = 1.0128 | 99.46% × 1.0128 = 100.73% | 100.73 | 0.73 |
-| 3 | EXT-2026-00147 | [Ctrl] ex / MC / AP7 | 26RE070033KF | C1 | 2026-07-23 08:48 | ex / MC / AP7 | 47.77 | 47.77 | 47.77m / 47.77m × 100 = 100.00% | 100.00 | 1.00 | 100.0% / 100.00% = 1.0000 | 100.00% × 1.0000 = 100.00% | 100.00 | 0.00 |
-| 4 | EXT-2026-00147 | [Ctrl] ex / MC / AP7 | 26RE070033KF | C2 | 2026-07-23 11:26 | ex / MC / AP7 | 47.93 | 47.93 | 47.93m / 47.93m × 100 = 100.00% | 100.00 | 1.00 | 100.0% / 100.00% = 1.0000 | 100.00% × 1.0000 = 100.00% | 100.00 | 0.00 |
-| 5 | EXT-2026-00147 | ex / MC / AP7 | 26RE080029KF | T2 | 2026-08-19 09:29 | 2nd / IW01 / X19 | 45.78 | 46.68 | 45.78m / 46.68m × 100 = 98.73% | 98.73 | 1.01 | 100.0% / 98.73% = 1.0128 | 98.73% × 1.0128 = 100.00% | 100.00 | 0.00 |
-| 6 | KPKT1033338X00019 | [Ctrl] KP / IW01 / X19 | 26RE070057KF | C1 | 2026-08-13 08:54 | KP / IW01 / X19 | 47.65 | 47.65 | 47.65m / 47.65m × 100 = 100.00% | 100.00 | 1.01 | 101.28% / 100.00% = 1.0128 | 100.00% × 1.0128 = 101.28% | 101.28 | 1.28 |
-| 7 | KPKT1033338X00019 | [Ctrl] KP / IW01 / X19 | 26RE070057KF | C2 | 2026-08-13 10:58 | KP / IW01 / X19 | 46.95 | 46.95 | 46.95m / 46.95m × 100 = 100.00% | 100.00 | 1.01 | 101.28% / 100.00% = 1.0128 | 100.00% × 1.0128 = 101.28% | 101.28 | 1.28 |
-| 8 | KPKT1033338X00019 | [Ctrl] 2nd / IW01 / X19 | 26RE080029KF | C1 | 2026-08-19 08:59 | 2nd / IW01 / X19 | 45.78 | 45.78 | 45.78m / 45.78m × 100 = 100.00% | 100.00 | 1.01 | 100.0% / 98.73% = 1.0128 | 100.00% × 1.0128 = 101.28% | 101.28 | 1.28 |
-| 9 | KPKT1033338X00019 | [Ctrl] 2nd / IW01 / X19 | 26RE080030KF | C1 | 2026-08-24 09:16 | 2nd / IW01 / X19 | 45.01 | 45.01 | 45.01m / 45.01m × 100 = 100.00% | 100.00 | 1.01 | 101.28% / 100.00% = 1.0128 | 100.00% × 1.0128 = 101.28% | 101.28 | 1.28 |
-| 10 | KPKT1033338X00019 | [Ctrl] 2nd / IW01 / X19 | 26RE080030KF | C2 | 2026-08-24 13:29 | 2nd / IW01 / X19 | 45.76 | 45.76 | 45.76m / 45.76m × 100 = 100.00% | 100.00 | 1.01 | 101.28% / 100.00% = 1.0128 | 100.00% × 1.0128 = 101.28% | 101.28 | 1.28 |
-
-
-#### ▶ LANE8 동일 스펙 반복 평가 세부 명세 (총 3건)
-| No | 스펙 번호 | 타이어 명칭/패턴 | 시험 의뢰서 | 차수 | 시험 일시 | 당일 콘트롤 | 콘트롤거리(m) | 실측거리(m) | Method A 산출식 | 로컬지수(%) | 적용배율 | 배율도출근거 | Method B 산출식 | 재보정지수(%) | 앵커대비편차(%p) |
-| :---: | :---: | :--- | :---: | :---: | :---: | :--- | ---: | ---: | :--- | ---: | ---: | :--- | :--- | ---: | ---: |
-| 1 | EXT-2026-00147 | [Ctrl] ex / MC / AP7 | 26RE040025KF | C1 | 2026-04-29 10:07 | ex / MC / AP7 | 43.51 | 43.51 | 43.51m / 43.51m × 100 = 100.00% | 100.00 | 1.00 | 100.0% / 100.00% = 1.0000 | 100.00% × 1.0000 = 100.00% | 100.00 | 0.00 |
-| 2 | EXT-2026-00147 | [Ctrl] ex / MC / AP7 | 26RE040025KF | C2 | 2026-04-29 14:22 | ex / MC / AP7 | 43.60 | 43.60 | 43.60m / 43.60m × 100 = 100.00% | 100.00 | 1.00 | 100.0% / 100.00% = 1.0000 | 100.00% × 1.0000 = 100.00% | 100.00 | 0.00 |
-| 3 | EXT-2026-00147 | ex / MC / AP7 | 26RE060023KF | T4 | 2026-06-25 11:52 | 2nd / IW01 / X18 | 47.63 | 47.07 | 47.63m / 47.07m × 100 = 101.19% | 101.19 | 0.99 | 100.0% / 101.19% = 0.9883 | 101.19% × 0.9883 = 100.00% | 100.00 | 0.00 |
+| 1 | EXT-2024-00280 | ex-CT-TS | 26RE070033KF | T1 | 2026-07-23 09:20 | ex / MC / AP7 | 47.80 | 48.26 | 47.80m / 48.26m × 100 = 99.03% | 99.03 | 1.00 | 100.0% / 100.00% = 1.0000 | 99.03% × 1.0000 = 99.03% | 99.03 | -0.97 |
+| 2 | EXT-2024-00280 | ex-CT-TS | 26RE080030KF | T1 | 2026-08-24 09:49 | 2nd / IW01 / X19 | 45.16 | 45.41 | 45.16m / 45.41m × 100 = 99.46% | 99.46 | 1.01 | 101.28% / 100.00% = 1.0128 | 99.46% × 1.0128 = 100.73% | 100.73 | 0.73 |
 
 
 ---
